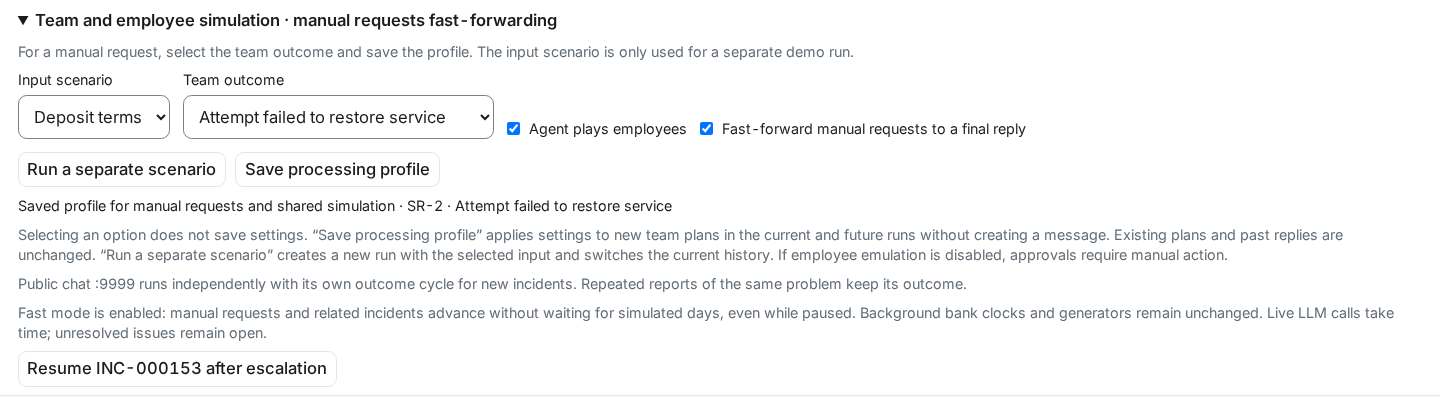
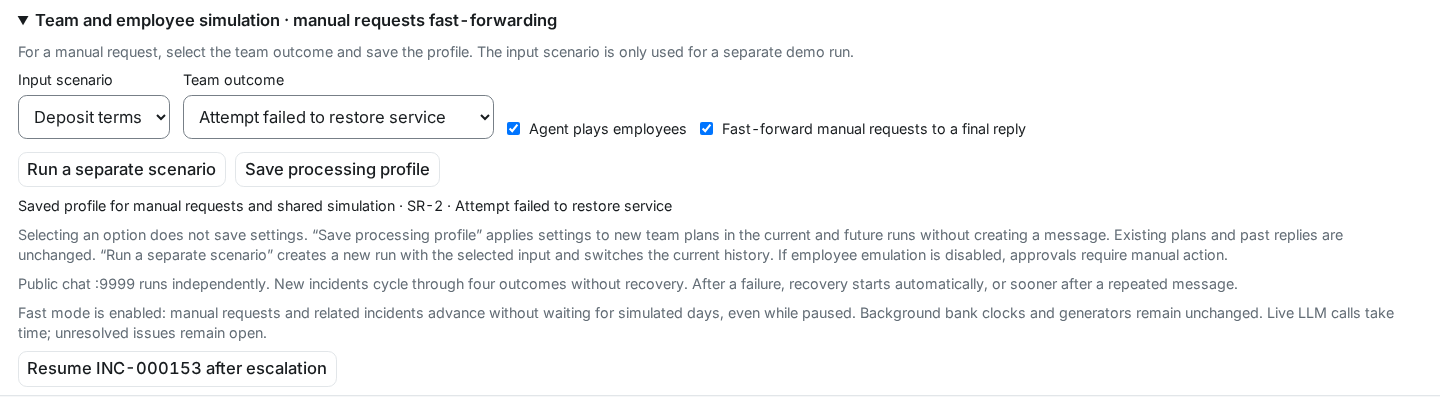
fix(demo): восстановление вторым сценарием и отдельный публичный worker

Changed region(s): [[0.1875, 0.6952, 0.875, 0.7557]]

diff --git a/backend/tests/integration/test_personal_execution.py b/backend/tests/integration/test_personal_execution.py
@@ -20,9 +20,7 @@ from tests.helpers import MOCK_PROFILE, dsn, mock_chain
 pytestmark = pytest.mark.integration
 
 
-@pytest.mark.parametrize(
-    "offset,empty_pointer", [(0, False), (1, False), (2, False), (3, False), (4, False), (0, True)]
-)
+@pytest.mark.parametrize("offset,empty_pointer", [(0, False), (1, False), (2, False), (3, False), (0, True)])
 async def test_personal_full_chain_without_bank_clock(seeded, monkeypatch, offset, empty_pointer):
     monkeypatch.setenv("DATABASE_URL", seeded)
     get_settings.cache_clear()
@@ -52,7 +50,7 @@ async def test_personal_full_chain_without_bank_clock(seeded, monkeypatch, offse
                 bank_cfg.update(enabled=False, auto_advance=False, emulate_humans=False, status="stopped")
                 await save(conn, sim.run_id, bank_cfg)
         sim.run_status = "stopped"
-        expected = [OUTCOMES[offset % 5], OUTCOMES[(offset + 1) % 5]]
+        expected = [OUTCOMES[offset % len(OUTCOMES)], OUTCOMES[(offset + 1) % len(OUTCOMES)]]
         boot = client.get("/api/personal/session").json()
         async with await psycopg.AsyncConnection.connect(dsn(seeded)) as conn:
             await conn.execute("update personal_chat_sessions set created_at=now()-interval '3 seconds'")
@@ -107,6 +105,9 @@ async def test_personal_full_chain_without_bank_clock(seeded, monkeypatch, offse
             await svc.submit(repeat_id, interactive=True)
             signal_ids.append(repeat_id)
             expected.append(expected[0])
+        async with sim._lock:
+            # Даже длительное исполнение Journey не блокирует отдельную публичную очередь.
+            await asyncio.wait_for(public_cycle(app), timeout=5)
         for _ in range(32):
             if svc._inflight:
                 await asyncio.gather(*list(svc._inflight))
@@ -151,6 +152,143 @@ async def test_personal_full_chain_without_bank_clock(seeded, monkeypatch, offse
         assert client.get("/api/settings").status_code == 404
         await cycle(app)
         assert len(client.get("/api/personal/messages").json()["answers"]) == len(history["answers"])
+    finally:
+        await svc.stop()
+        await sim.shutdown()
+        get_settings.cache_clear()
+
+
+@pytest.mark.parametrize("initial", ["no_work", "failed"])
+@pytest.mark.parametrize("trigger", ["timer", "repeat"])
+async def test_public_recovery_is_a_second_scenario_for_same_incident(seeded, monkeypatch, initial, trigger):
+    import datetime as dt
+
+    from app.demo.public import OUTCOMES, public_context, recover_public_cases
+    from app.demo.settings import configuration, save
+
+    monkeypatch.setenv("DATABASE_URL", seeded)
+    get_settings.cache_clear()
+    app = create_app()
+    svc = app.state.agent = AgentService(mock_chain(), MOCK_PROFILE, dsn=seeded)
+    sim = app.state.sim = Simulator(dsn=seeded)
+    await sim.load_state()
+    app.state.llm_chain, app.state.llm_profile = svc.chain, svc.profile
+    client = TestClient(create_public_app())
+    try:
+        before = sim.clock.sim_time
+        bank_run = sim.run_id
+        async with await psycopg.AsyncConnection.connect(dsn(seeded)) as conn:
+            rid, _ = await public_context(conn)
+            config = await configuration(conn, rid)
+            config["outcome_cursor"] = OUTCOMES.index(initial)
+            await save(conn, rid, config)
+        boot = client.get("/api/personal/session").json()
+        async with await psycopg.AsyncConnection.connect(dsn(seeded)) as conn:
+            await conn.execute("update personal_chat_sessions set created_at=now()-interval '3 seconds'")
+        payload = {
+            "request_id": str(uuid.uuid4()),
+            "form_token": boot["form_token"],
+            "product_code": "deposit",
+            "text": "Не могу открыть вклад в мобильном приложении: ошибка 503 после подтверждения. Списаний не было.",
+        }
+        accepted = client.post("/api/personal/messages", json=payload)
+        assert accepted.status_code == 202
+        async with await psycopg.AsyncConnection.connect(dsn(seeded)) as conn:
+            sid = (
+                await (
+                    await conn.execute("select id from signals where public_id=%s", (accepted.json()["public_id"],))
+                ).fetchone()
+            )[0]
+        await svc.submit(sid, interactive=True)
+        for _ in range(16):
+            await public_cycle(app)
+        async with await psycopg.AsyncConnection.connect(dsn(seeded)) as conn:
+            iid, status, original_ar, ar_status = await (
+                await conn.execute(
+                    "select i.id,i.status,a.id,a.outcome from incidents i join incident_signals x on x.incident_id=i.id join agent_runs a on a.signal_id=x.signal_id and a.kind='agent' where x.signal_id=%s",
+                    (sid,),
+                )
+            ).fetchone()
+            assert status == "escalated" and ar_status == "deferred"
+            first_notice = (
+                await (
+                    await conn.execute(
+                        "select created_at from notifications where signal_id=%s and template_code='demo_unresolved'",
+                        (sid,),
+                    )
+                ).fetchone()
+            )[0]
+            assert (
+                await (
+                    await conn.execute(
+                        "select distinct payload->>'outcome' from team_actions where incident_id=%s", (iid,)
+                    )
+                ).fetchall()
+            ) == [(initial,)]
+            await recover_public_cases(app, conn, rid, now=first_notice + dt.timedelta(seconds=1))
+            assert (
+                await (
+                    await conn.execute(
+                        "select count(*) from team_actions where incident_id=%s and payload->>'outcome'='recovered'",
+                        (iid,),
+                    )
+                ).fetchone()
+            )[0] == 0
+        if trigger == "repeat":
+            async with await psycopg.AsyncConnection.connect(dsn(seeded)) as conn:
+                await conn.execute("update personal_chat_sessions set last_message_at=now()-interval '3 seconds'")
+            repeat = client.post(
+                "/api/personal/messages",
+                json={**payload, "request_id": str(uuid.uuid4()), "text": "Проблема сохраняется. " + payload["text"]},
+            )
+            assert repeat.status_code == 202
+            async with await psycopg.AsyncConnection.connect(dsn(seeded)) as conn:
+                repeat_sid = (
+                    await (
+                        await conn.execute("select id from signals where public_id=%s", (repeat.json()["public_id"],))
+                    ).fetchone()
+                )[0]
+            await svc.submit(repeat_sid, interactive=True)
+        now = first_notice + dt.timedelta(seconds=31 if trigger == "timer" else 1)
+        async with await psycopg.AsyncConnection.connect(dsn(seeded)) as conn:
+            await recover_public_cases(app, conn, rid, now=now)
+            await recover_public_cases(app, conn, rid, now=now)
+            assert (
+                await (
+                    await conn.execute(
+                        "select count(*) from team_actions where incident_id=%s and action='fix_decision' and payload->>'outcome'='recovered'",
+                        (iid,),
+                    )
+                ).fetchone()
+            )[0] == 1
+        for _ in range(16):
+            await public_cycle(app)
+        async with await psycopg.AsyncConnection.connect(dsn(seeded)) as conn:
+            assert (await (await conn.execute("select status from incidents where id=%s", (iid,))).fetchone())[
+                0
+            ] == "closed"
+            assert (
+                await (await conn.execute("select outcome from agent_runs where id=%s", (original_ar,))).fetchone()
+            )[0] == "completed"
+            assert (
+                await (
+                    await conn.execute(
+                        "select template_code from notifications where signal_id=%s and template_code in ('demo_unresolved','resolved') order by id",
+                        (sid,),
+                    )
+                ).fetchall()
+            ) == [("demo_unresolved",), ("resolved",)]
+            config = await configuration(conn, rid)
+            assert config["outcome_cursor"] == OUTCOMES.index(initial) + 1
+            assert config["incident_outcomes"] == {str(iid): initial}
+            assert (await (await conn.execute("select count(*) from incidents where run_id=%s", (rid,))).fetchone())[
+                0
+            ] == 1
+            if trigger == "repeat":
+                assert (await (await conn.execute("select status from signals where id=%s", (repeat_sid,))).fetchone())[
+                    0
+                ] == "closed"
+        assert sim.run_id == bank_run and sim.clock.sim_time == before and not sim.clock.running
     finally:
         await svc.stop()
         await sim.shutdown()

diff --git a/backend/app/demo/execution.py b/backend/app/demo/execution.py
@@ -58,11 +58,22 @@ async def execution_active(app: Any, conn: Any, run_id: int, *, manual_only: boo
     )
 
 
+def execution_lock(app: Any, *, public_demo: bool) -> Any:
+    """Длительная работа Journey не занимает очередь публичного показа."""
+    if not public_demo:
+        return app.state.sim._lock
+    lock = getattr(app.state, "public_execution_lock", None)
+    if lock is None:
+        lock = app.state.public_execution_lock = asyncio.Lock()
+    return lock
+
+
 async def employees(app: Any, conn: Any, run_id: int, at: dt.datetime, *, manual_only: bool = False) -> bool:
     """Один ответ за цикл; ручное решение выигрывает гонку благодаря штатной блокировке HITL."""
     svc = app.state.agent
     request = Request({"type": "http", "app": app, "headers": []})
     request.state.demo_sim_time = at
+    public_demo = bool((await configuration(conn, run_id)).get("public_demo"))
     cur = await conn.execute(
         "select h.id,h.reason,h.agent_proposal,h.decision from human_decisions h left join agent_runs a on a.id=h.agent_run_id "
         "where h.sim_run_id=%s and (%s=false or exists(select 1 from signals ms "
@@ -91,7 +102,7 @@ async def employees(app: Any, conn: Any, run_id: int, at: dt.datetime, *, manual
             "Демонстрационный оператор рассмотрел предложение агента и согласовал исполнение в пределах действующих правил.",
         )
         decision = obj["decision"] if obj["decision"] in ("accept", "reject") else "reject"
-        async with app.state.sim._lock:
+        async with execution_lock(app, public_demo=public_demo):
             if not await execution_active(app, conn, run_id, manual_only=manual_only):
                 return False
             try:
@@ -331,7 +342,7 @@ async def manual_cycle(app: Any, conn: Any, rid: int, config: dict[str, Any]) ->
     if not ids:
         return
     await conn.commit()
-    async with sim._lock:
+    async with execution_lock(app, public_demo=bool(config.get("public_demo"))):
         if not await execution_active(app, conn, rid, manual_only=True):
             return
         emulator = TeamEmulator(
@@ -457,7 +468,8 @@ async def cycle(app: Any) -> None:
         ).fetchone()
         await conn.commit()
         pending = pending_row[0] if pending_row else 0
-        if config.get("mode") == "demo" and (pending or svc._inflight):
+        # pending ограничен этим запуском; публичные графы другого запуска не тормозят Journey.
+        if config.get("mode") == "demo" and pending:
             return
         failed = await (
             await conn.execute(
@@ -543,6 +555,10 @@ async def public_cycle(app: Any) -> None:
             try:
                 await manual_cycle(app, conn, int(rid), await configuration(conn, int(rid)))
                 await conn.commit()
+                from app.demo.public import recover_public_cases
+
+                await recover_public_cases(app, conn, int(rid))
+                await conn.commit()
                 await complete_manual_followups(app, conn, int(rid))
                 await conn.commit()
             except Exception as exc:
@@ -554,10 +570,20 @@ async def public_cycle(app: Any) -> None:
                 await conn.commit()
 
 
-async def worker(app: Any) -> None:
+async def public_worker(app: Any) -> None:
     while True:
         try:
             await public_cycle(app)
+        except asyncio.CancelledError:
+            raise
+        except Exception as exc:
+            log.exception("public_execution_failed", error_type=type(exc).__name__)
+        await asyncio.sleep(2)
+
+
+async def worker(app: Any) -> None:
+    while True:
+        try:
             await cycle(app)
         except asyncio.CancelledError:
             raise

diff --git a/backend/app/demo/recovery.py b/backend/app/demo/recovery.py
@@ -16,7 +16,7 @@ from app.sim.rng import SimRng
 from app.sim.teams import IncidentPlan, PlannedStep, TeamEmulator
 
 
-async def recover_incident(app: Any, conn: Any, iid: int) -> None:
+async def recover_incident(app: Any, conn: Any, iid: int, *, public_demo: bool = False) -> None:
     sim, svc = app.state.sim, app.state.agent
     row = await (
         await conn.execute(
@@ -24,9 +24,12 @@ async def recover_incident(app: Any, conn: Any, iid: int) -> None:
             (iid,),
         )
     ).fetchone()
-    if not row or row[0] != sim.run_id:
-        raise HTTPException(404, "Инцидент не принадлежит текущему запуску")
+    if not row:
+        raise HTTPException(404, "Инцидент не найден")
     rid, status, team, title, system, product, arid = row
+    config = await configuration(conn, rid)
+    if (public_demo and not config.get("public_demo")) or (not public_demo and rid != sim.run_id):
+        raise HTTPException(404, "Инцидент не принадлежит текущему запуску")
     last = await (
         await conn.execute(
             "select payload->>'outcome',action_sim from team_actions where incident_id=%s order by action_sim desc,id desc limit 1",
@@ -37,15 +40,15 @@ async def recover_incident(app: Any, conn: Any, iid: int) -> None:
         return  # Повтор запроса не создаёт новую попытку или уведомление.
     manual = await (
         await conn.execute(
-            "select 1 from incident_signals x join signals s on s.id=x.signal_id where x.incident_id=%s and s.origin='jury' limit 1",
-            (iid,),
+            "select 1 from incident_signals x join signals s on s.id=x.signal_id where x.incident_id=%s and ((%s and s.channel_subtype='ui_pers_demo') or (not %s and s.origin='jury')) limit 1",
+            (iid, public_demo, public_demo),
         )
     ).fetchone()
     if status != "escalated" or not last or last[0] not in ("failed", "no_work") or not manual:
         raise HTTPException(409, "Нет завершённой неудачной demo-попытки для восстановления")
-    config = await configuration(conn, rid)
+    base_time = dt.datetime.fromisoformat(config["base_time"]) if public_demo else sim.clock.sim_time
     at = max(
-        sim.clock.sim_time,
+        base_time,
         last[1],
         dt.datetime.fromisoformat((config.get("manual_times") or {}).get(str(iid), last[1].isoformat())),
     )

diff --git a/backend/app/demo/public.py b/backend/app/demo/public.py
@@ -10,7 +10,7 @@ from psycopg.rows import tuple_row
 from app.demo.settings import configuration, save
 from app.sim.events import dumps
 
-OUTCOMES = ("on_time", "late", "no_work", "failed", "recovered")
+OUTCOMES = ("on_time", "late", "no_work", "failed")
 
 
 async def public_context(conn: Any) -> tuple[int, dt.datetime]:
@@ -64,3 +64,25 @@ async def assign_outcomes(conn: Any, rid: int, ids: list[int]) -> dict[int, str]
     config.update(incident_outcomes=assigned, outcome_cursor=cursor)
     await save(conn, rid, config)
     return {iid: assigned[str(iid)] for iid in ids}
+
+
+async def recover_public_cases(app: Any, conn: Any, rid: int, *, now: dt.datetime | None = None) -> None:
+    """Второй сценарий: повтор ускоряет восстановление, иначе оно начинается через 30 секунд."""
+    from app.demo.execution import execution_lock
+    from app.demo.recovery import recover_incident
+
+    cutoff = (now or dt.datetime.now(dt.UTC)) - dt.timedelta(seconds=30)
+    async with execution_lock(app, public_demo=True):
+        rows = await (
+            await conn.execute(
+                "select i.id from incidents i where i.run_id=%s and i.status='escalated' "
+                "and (select ta.payload->>'outcome' from team_actions ta where ta.incident_id=i.id order by ta.action_sim desc,ta.id desc limit 1) in ('failed','no_work') "
+                "and exists(select 1 from notifications n where n.incident_id=i.id and n.template_code='demo_unresolved') "
+                "and not exists(select 1 from incident_signals x join signals s on s.id=x.signal_id where x.incident_id=i.id and (s.status in ('new','processing','awaiting_human') or exists(select 1 from agent_runs a where a.signal_id=s.id and a.kind='agent' and (a.outcome is null or a.outcome='awaiting_human')))) "
+                "and ((select min(n.created_at) from notifications n where n.incident_id=i.id and n.template_code='demo_unresolved')<=%s "
+                "or exists(select 1 from incident_signals x join signals s on s.id=x.signal_id where x.incident_id=i.id and s.channel_subtype='ui_pers_demo' and s.received_at>(select min(n.created_at) from notifications n where n.incident_id=i.id and n.template_code='demo_unresolved'))) order by i.id",
+                (rid, cutoff),
+            )
+        ).fetchall()
+        for (iid,) in rows:
+            await recover_incident(app, conn, int(iid), public_demo=True)

diff --git a/backend/app/main.py b/backend/app/main.py
@@ -120,16 +120,19 @@ async def lifespan(app: FastAPI) -> AsyncIterator[None]:
             await _abs_backfill()
         except Exception as exc:  # БД недоступна — API симулятора ответит 503, остальное работает
             log.warning("sim_init_failed", error=str(exc)[:200])
-    demo_task = None
+    demo_task = public_task = None
     if not s.is_test:
+        from app.demo.execution import public_worker
         from app.demo.execution import worker as demo_worker
 
         demo_task = asyncio.create_task(demo_worker(app), name="demo-execution")
+        public_task = asyncio.create_task(public_worker(app), name="public-execution")
     yield
-    if demo_task:
-        demo_task.cancel()
-        with contextlib.suppress(asyncio.CancelledError):
-            await demo_task
+    for execution_task in (demo_task, public_task):
+        if execution_task:
+            execution_task.cancel()
+            with contextlib.suppress(asyncio.CancelledError):
+                await execution_task
     await app.state.bench.stop()
     if app.state.twins is not None:
         await app.state.twins.stop()

diff --git a/docs/TZ.md b/docs/TZ.md
@@ -1597,9 +1597,17 @@ Lightning → Ultra с резервом 5/5. Это не
 Публичный чат localhost:9999 (`ui_pers_demo`) проходит тот же граф агента и команды.
 С 01.11.2026 (#144) управление независимо от /journey: первый вход создаёт отдельный
 paused live-run, не меняя текущий запуск банка. Собственные часы цепочек, назначения
-исходов и курсор сохраняются в БД. Новые инциденты по очереди получают `on_time`,
-`late`, `no_work`, `failed`, `recovered`; повторные сигналы общей открытой проблемы
+исходов и курсор сохраняются в БД. Цель по реальному времени до результата —
+не более 1–3 минут без ожидания симуляционных дней; отдельная блокировка публичного
+исполнения не ждёт длительной работы Journey. Новые инциденты по очереди получают `on_time`,
+`late`, `no_work`, `failed`; `recovered` не выбирается для нового инцидента и
+доступен только дополнительным продолжением неудачного кейса. Повторные сигналы общей открытой проблемы
 связываются с тем же инцидентом и его исходом, не расходуя следующий вариант.
+После `no_work`/`failed` публичный контур сначала отправляет честный ответ о
+продолжении работы, затем запускает дополнительный сценарий `recovered` в том же
+инциденте: автоматически через 30 реальных секунд или раньше после повторного
+сообщения по той же проблеме. Гонка обоих триггеров не дублирует попытку и итоговый
+ответ; исходное назначение и курсор новых инцидентов сохраняются.
 Сохранение профиля, пауза и остановка /journey не управляют публичным контуром.
 Общие правила агента, приватность сессий и финансовые ограничения сохраняются.
 Новые сигналы, последующие сообщения, повторы ключа запроса и приватность сессии

diff --git a/docs/CHANGELOG.md b/docs/CHANGELOG.md
@@ -2,8 +2,8 @@
 
 ## 01.11.2026 — независимые исходы публичного демо и восстановление (#144)
 
-Публичный чат :9999 получает собственный paused live-run и сохранённый цикл пяти
-исходов на новые инциденты; связанные сигналы одной проблемы не сдвигают цикл.
+Публичный чат :9999 получает собственный paused live-run и сохранённый цикл четырёх
+исходов на новые инциденты; recovered доступен только дополнительной попыткой после неудачи; связанные сигналы одной проблемы не сдвигают цикл.
 Настройки и часы Journey не управляют публичным показом. Для неудачного ручного
 инцидента добавлено явное продолжение после эскалации: тот же инцидент, исходный
 граф и история, затем релиз, проверка и конечное сообщение. OpenAPI 1.5.11.
